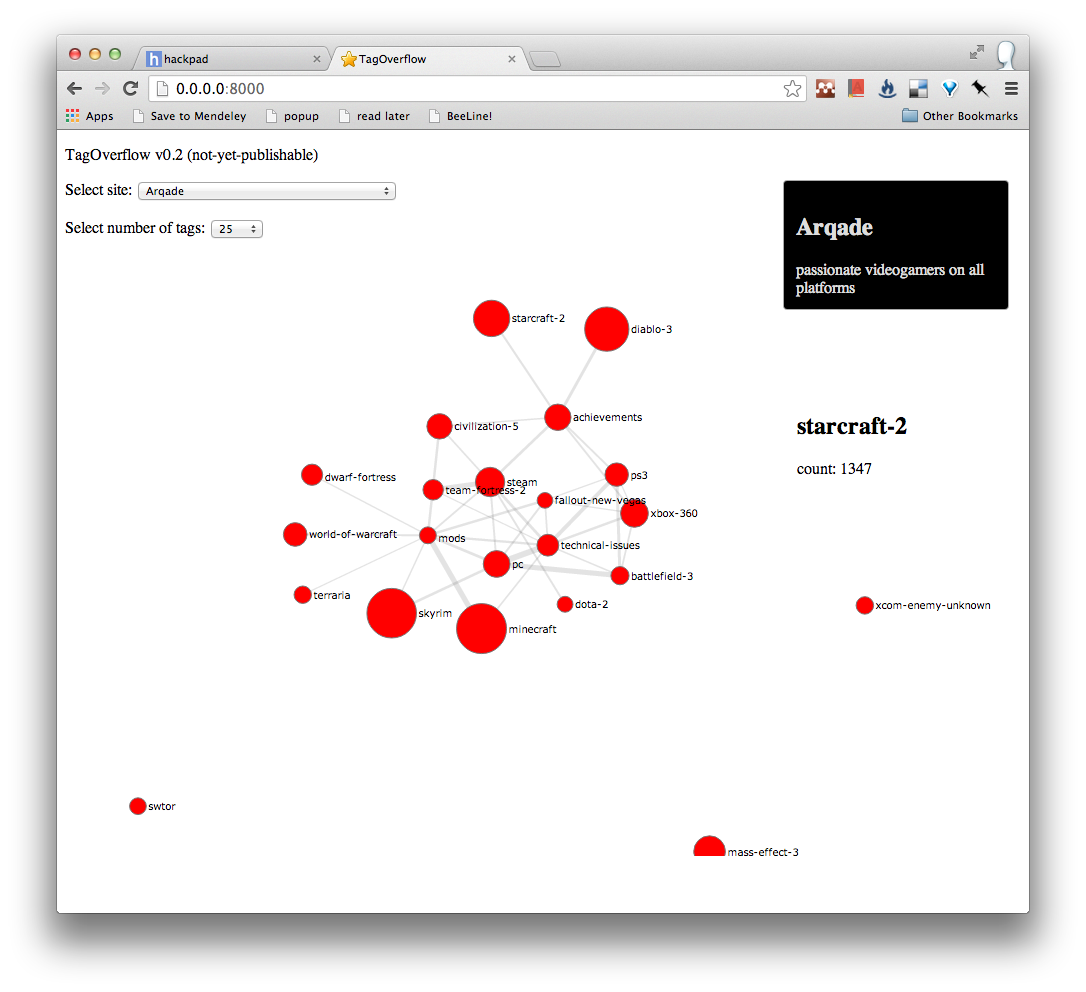
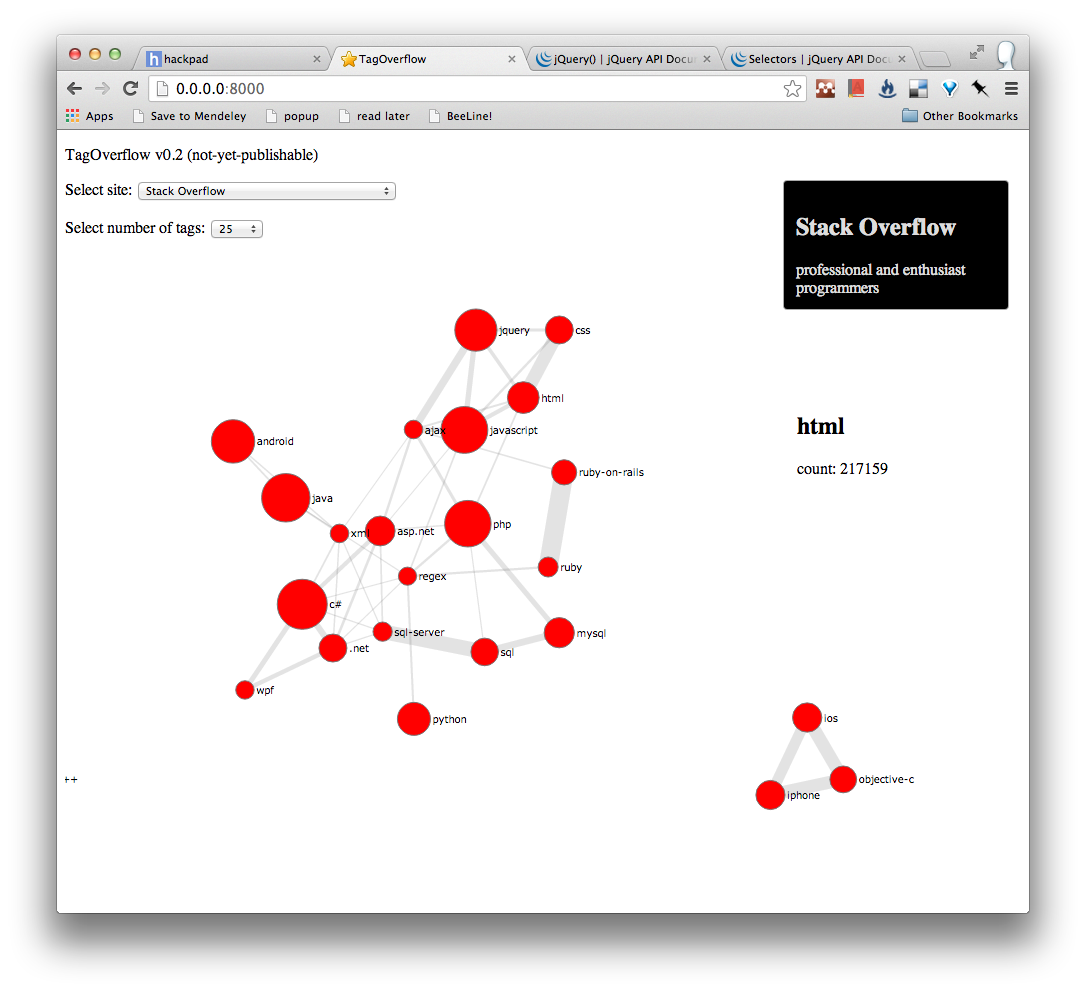
new query and loading all sites

diff --git a/index.html b/index.html
@@ -55,22 +55,23 @@ d3.select("select#site_name").selectAll("option")
         .attr("value", function(d){ return d.api_site_parameter; })
         .text(function(d){ return d.name; })
 
-// d3.json("jsons/biology.json", function(error, graph) { draw_graph(graph); });
+$("select#site_name")[0].value = "stackoverflow";
+draw_graph();
 
 d3.select("select#site_name").on("change", function(){
-  var  pageSize = parseInt(d3.select("select#pageSize")[0][0].value);
-  var  siteName = this.value;
-  draw_graph(getNodesLinks(siteName, pageSize), siteName);
+  draw_graph();
 });
 
 d3.select("select#pageSize").on("change", function(){
-  var  pageSize = this.value;
-  var  siteName = d3.select("select#site_name")[0][0].value;
-  draw_graph(getNodesLinks(siteName, pageSize), siteName);
+  draw_graph();
 });
 
 
-function draw_graph(graph, siteName){
+function draw_graph(){
+
+var siteName = $("select#site_name")[0].value;
+var pageSize = parseInt($("select#pageSize")[0].value);
+var graph = getNodesLinks(siteName, pageSize);
 
 // var siteInfo = fetchSiteStats(siteName);
 $(".site_info #title").html(sitesDict[siteName].name);

diff --git a/se_query.js b/se_query.js
@@ -1,0 +1,37 @@
+var apiName = "http://api.stackexchange.com/2.1/";
+var apiKey = "of3hmyFapahonChi8EED6g((";
+
+function httpGetJSON(theUrl)
+{
+  var xmlHttp = null;
+
+  xmlHttp = new XMLHttpRequest();
+  xmlHttp.open("GET", theUrl, false);
+  xmlHttp.send(null);
+  return JSON.parse(xmlHttp.responseText);
+}
+
+var seQuery = function(command, dict, noOfItems){
+  var pageSize = noOfItems || 100;
+  pageSize = Math.min(pageSize, 100);
+  var queryString = apiName + command + "/?";
+  for (var k in dict) {
+    queryString += k + "=" + dict[k] + "&";
+  }
+  var res = [];
+  queryString += "key=" + apiKey + "&pagesize=" + pageSize;
+  for (var i=0; (noOfItems === undefined) || (i * pageSize < noOfItems); i++){
+    var resp = httpGetJSON(queryString + "&page=" + (i+1));
+    if (resp.items === undefined){
+      console.log("Error with SE API:\n(call: "
+                  + queryString + "&page=" + (i+1) + ")\n"
+                  + JSON.stringify(resp, null, 2)
+      );
+      return undefined;
+    }
+    res = res.concat(resp.items);
+    if (resp.has_more === false)
+      break;
+  }
+  return res;
+};

diff --git a/se_tags.js b/se_tags.js
@@ -1,5 +1,4 @@
-var apiName = "http://api.stackexchange.com/2.1/";
-var apiKey = "of3hmyFapahonChi8EED6g((";
+// require se_query.js
 
 function httpGetJSON(theUrl)
 {
@@ -13,11 +12,7 @@ function httpGetJSON(theUrl)
 
 function fetchSites()
 {
-  var sites = httpGetJSON(apiName
-              + "sites"
-              + "?key="
-              + apiKey
-              + "&pagesize=100").items;
+  sites = seQuery("sites", {}, 10000);
   return sites.filter(function(x) {return x.site_type === "main_site";})
               .sort(function(x,y){
                 if (x.name > y.name)
